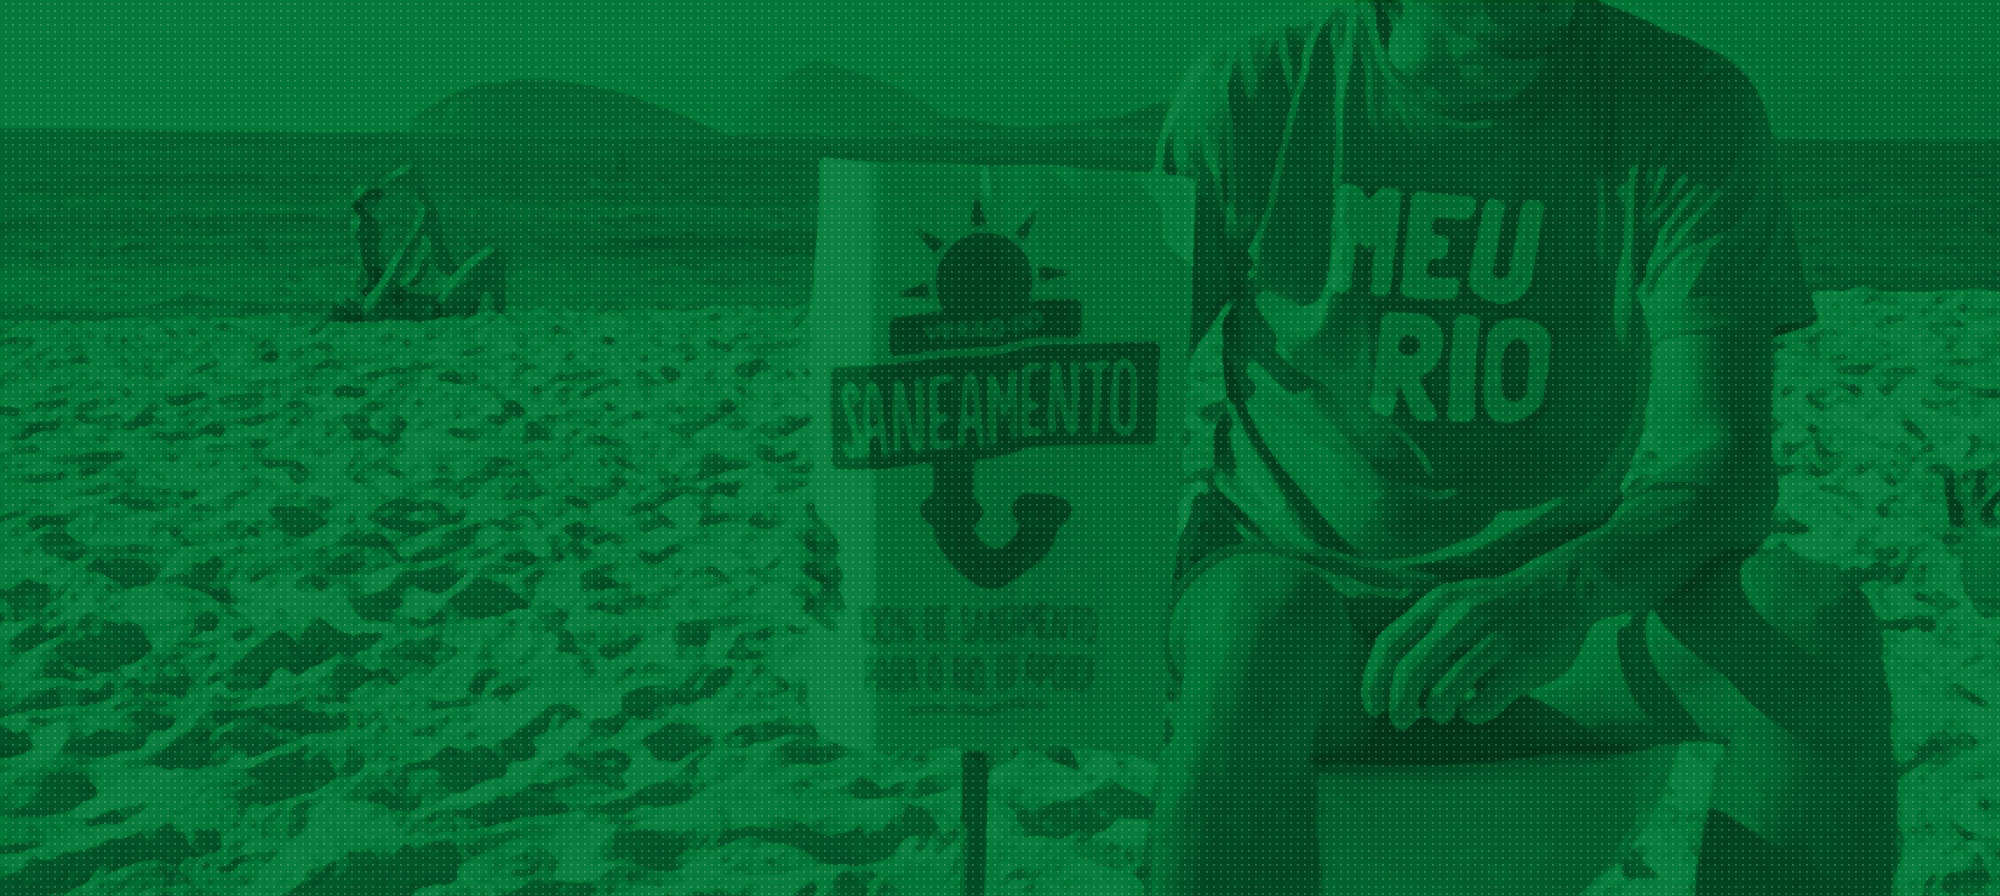
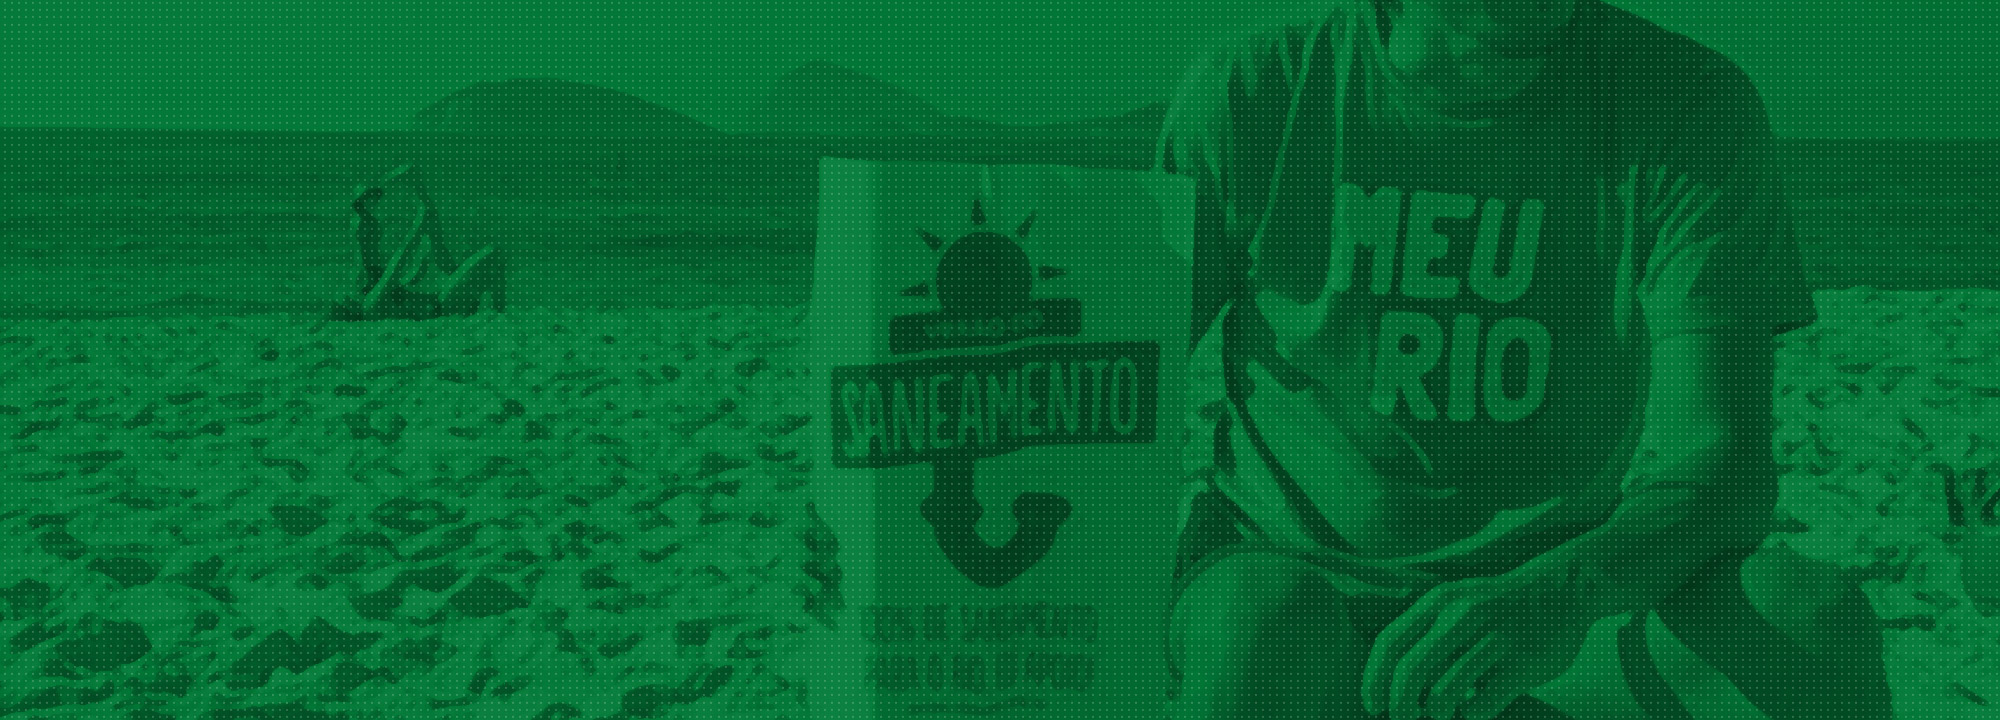
[#65576378] Uncomment screen2 (celebraco) and add new assets.

Changed region(s): [[0.0, 0.0, 1.0, 1.0], [0.93, 0.0, 0.961, 0.0306]]

diff --git a/app/assets/stylesheets/home.css.sass b/app/assets/stylesheets/home.css.sass
@@ -30,7 +30,7 @@
   display: block
   margin: 1.2em 0 1em 0
 .screen
-  min-height: 650px
+  min-height: 580px
   background-size: cover
   p, h1, h2, h3, h4, h5
     color: white
